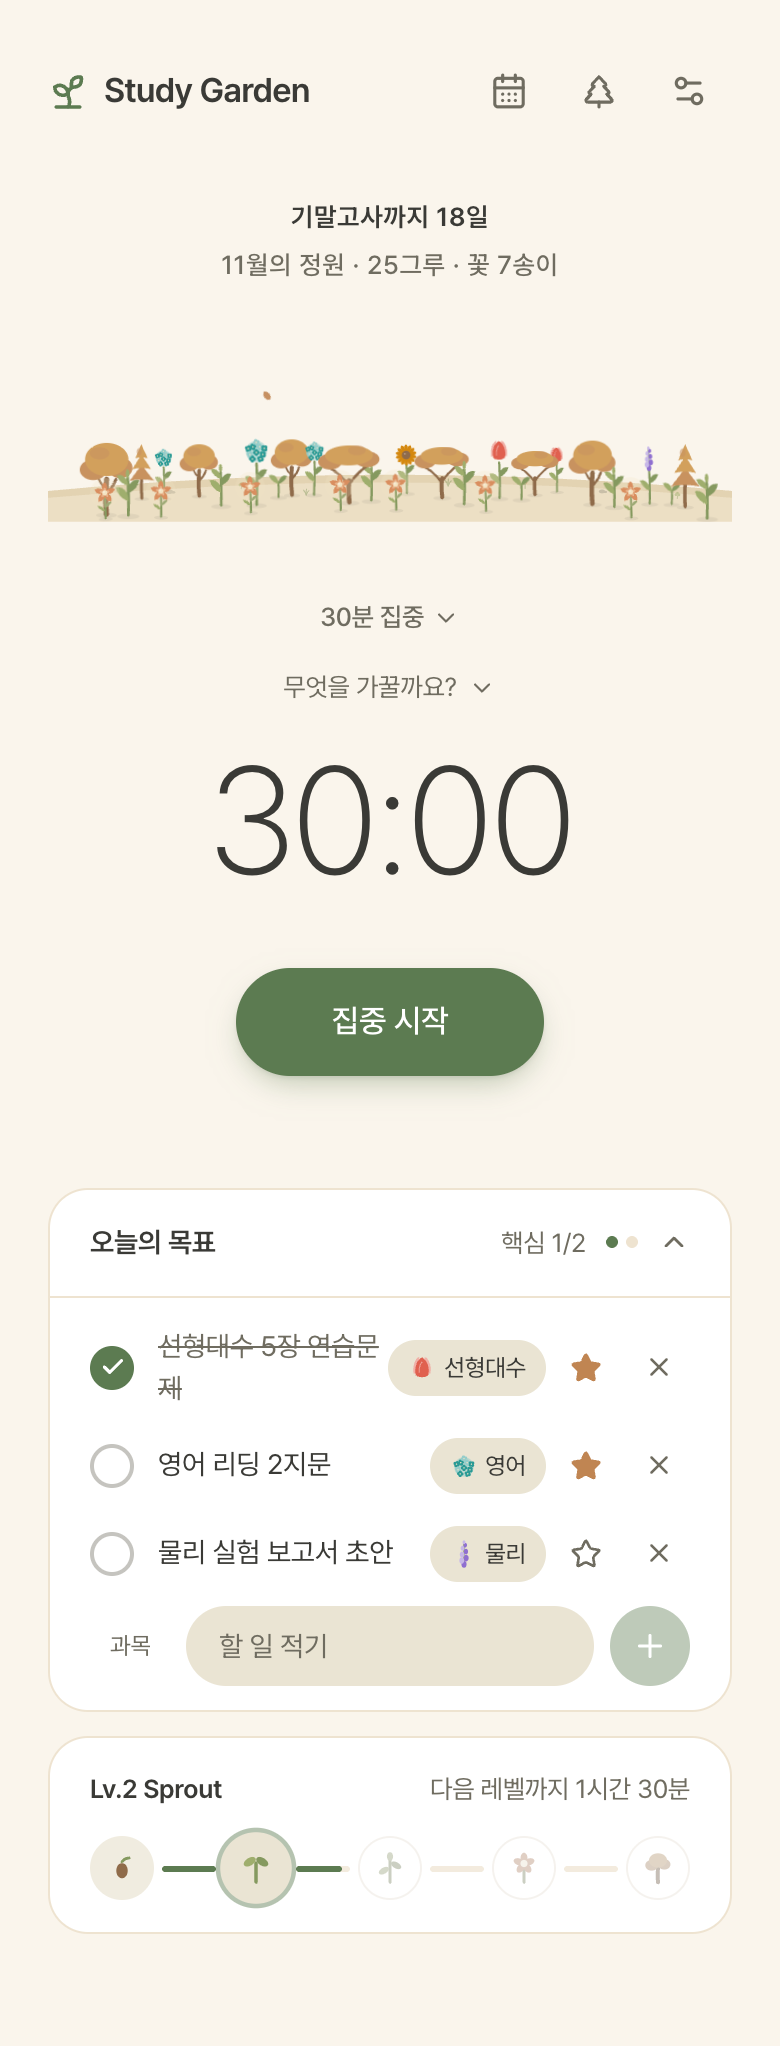
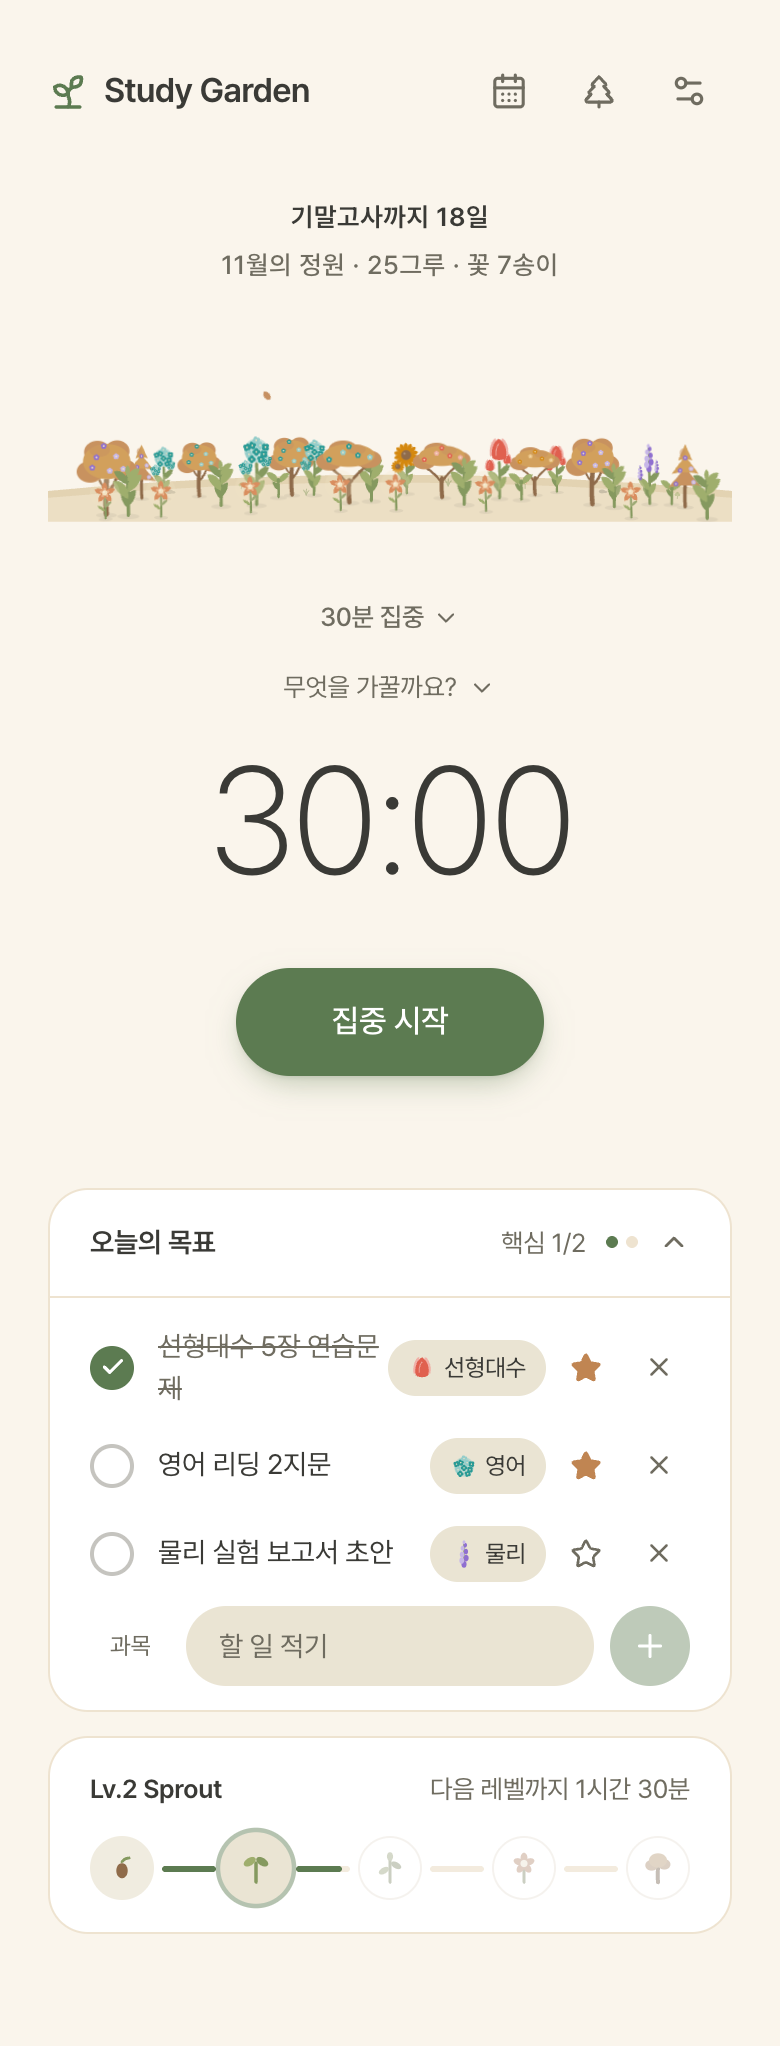
정원 아트 개정 B: 풍성하고 알록달록하게 — 새싹 잎 3장·잎 덤불·곁가지 꽃·나무 꽃(과목색)
사용자 요청("비실비실") → A/B 비교 후 확정. 나무에도 과목색 꽃이 피어 docs/03 측정 계획 2 해소.
README·회고·docs/03 갱신, 스크린샷 19장 재촬영(프로덕션 서버). 시나리오 139/139, npm test 59/59.

Changed region(s): [[0.0923, 0.2155, 0.9231, 0.2463]]

diff --git a/components/garden/Plant.tsx b/components/garden/Plant.tsx
@@ -36,33 +36,39 @@ function SproutShape() {
   return (
     <g>
       <path
-        d="M0 0 C0.4 -6 0.4 -12 0 -17"
+        d="M0 0 C0.4 -6 0.4 -12 0 -18"
         stroke="var(--stem)"
-        strokeWidth="2.4"
+        strokeWidth="3"
         strokeLinecap="round"
         fill="none"
       />
-      <LeafBlade x={0} y={-15.5} angle={8} size={1.05} fill="var(--leaf)" />
-      <LeafBlade x={0} y={-15.5} angle={-8} size={0.95} flip fill="var(--stem)" />
+      <LeafBlade x={0} y={-8} angle={20} size={0.85} fill="var(--stem)" />
+      <LeafBlade x={0} y={-16.5} angle={6} size={1.3} fill="var(--leaf)" />
+      <LeafBlade x={0} y={-16.5} angle={-6} size={1.2} flip fill="var(--leaf)" />
+      <ellipse cx="0" cy="-19.5" rx="2.2" ry="3" fill="var(--stem)" />
     </g>
   )
 }
 
+/** 잎 단계 — 잎이 무성한 작은 덤불. 두 톤 잎이 엇갈려 난다. */
 function LeafShape() {
   return (
     <g>
       <path
-        d="M0 0 C0.6 -12 0.6 -24 0 -34"
+        d="M0 0 C0.6 -12 0.6 -24 0 -36"
         stroke="var(--stem)"
-        strokeWidth="2.6"
+        strokeWidth="3.2"
         strokeLinecap="round"
         fill="none"
       />
-      <LeafBlade x={0} y={-13} angle={14} size={1.15} fill="var(--leaf)" />
-      <LeafBlade x={0} y={-20} angle={-14} size={1.1} flip fill="var(--stem)" />
-      <LeafBlade x={0} y={-27} angle={10} size={0.95} fill="var(--leaf)" />
+      <LeafBlade x={0} y={-6} angle={34} size={1.2} fill="var(--stem)" />
+      <LeafBlade x={0} y={-8} angle={-30} size={1.15} flip fill="var(--stem)" />
+      <LeafBlade x={0} y={-15} angle={16} size={1.45} fill="var(--leaf)" />
+      <LeafBlade x={0} y={-21} angle={-16} size={1.4} flip fill="var(--leaf)" />
+      <LeafBlade x={0} y={-28} angle={10} size={1.2} fill="var(--stem)" />
+      <LeafBlade x={0} y={-31} angle={-10} size={1.1} flip fill="var(--leaf)" />
       <path
-        d="M0 -33 C-2.6 -36 -2.2 -40.5 0 -42.5 C2.2 -40.5 2.6 -36 0 -33 Z"
+        d="M0 -35 C-3.2 -38.6 -2.8 -43.6 0 -46 C2.8 -43.6 3.2 -38.6 0 -35 Z"
         fill="var(--leaf)"
       />
     </g>
@@ -71,7 +77,7 @@ function LeafShape() {
 
 /** 기존(과목 없음) 꽃송이 — 둥근 꽃잎 6장. variant로 색이 달라진다. */
 function DefaultBloom({ variant }: { variant: number }) {
-  const petal = PETAL_COLORS[variant % PETAL_COLORS.length]
+  const petal = PETAL_COLORS[((variant % PETAL_COLORS.length) + PETAL_COLORS.length) % PETAL_COLORS.length]
   return (
     <>
       {PETAL_ANGLES.map((deg) => (
@@ -196,20 +202,41 @@ export function SpeciesIcon({ species, className }: { species: SpeciesId; classN
   )
 }
 
+/** 곁가지 끝의 작은 꽃 — 과목 꽃이면 같은 종, 아니면 다른 계절색으로 피어 알록달록해진다 */
+function SideBloom({ x, y, scale, variant, species }: { x: number; y: number; scale: number; variant: number; species: SpeciesId | null }) {
+  const Bloom = species != null ? SPECIES_BLOOM[species] : null
+  return (
+    <g transform={`translate(${x} ${y}) scale(${scale})`}>
+      {Bloom ? <Bloom /> : <DefaultBloom variant={variant} />}
+    </g>
+  )
+}
+
 function FlowerShape({ variant, species }: { variant: number; species: SpeciesId | null }) {
   const Bloom = species != null ? SPECIES_BLOOM[species] : null
   return (
     <g>
+      <path d="M0 -18 C-4 -22 -8 -26 -10 -32" stroke="var(--stem)" strokeWidth="2" strokeLinecap="round" fill="none" />
+      <path d="M0 -24 C4 -28 7.5 -32 9 -39" stroke="var(--stem)" strokeWidth="2" strokeLinecap="round" fill="none" />
       <path
         d="M0 0 C0.6 -16 0.6 -30 0 -41"
         stroke="var(--stem)"
-        strokeWidth="2.6"
+        strokeWidth="3.2"
         strokeLinecap="round"
         fill="none"
       />
-      <LeafBlade x={0} y={-16} angle={12} size={1.15} fill="var(--leaf)" />
-      <LeafBlade x={0} y={-24} angle={-12} size={1.05} flip fill="var(--stem)" />
-      <g transform="translate(0 -48)">
+      <LeafBlade x={0} y={-6} angle={30} size={1.25} fill="var(--stem)" />
+      <LeafBlade x={0} y={-9} angle={-28} size={1.2} flip fill="var(--leaf)" />
+      <LeafBlade x={0} y={-16} angle={12} size={1.35} fill="var(--leaf)" />
+      <LeafBlade x={0} y={-24} angle={-12} size={1.25} flip fill="var(--stem)" />
+      <g
+        className="plant-sway"
+        style={{ '--sway-a': '2.4deg', animationDuration: '4.4s' } as React.CSSProperties}
+      >
+        <SideBloom x={-10.5} y={-34} scale={0.62} variant={variant + 1} species={species} />
+        <SideBloom x={9.5} y={-41} scale={0.55} variant={variant + 2} species={species} />
+      </g>
+      <g transform="translate(0 -48) scale(1.15)">
         <g
           className="plant-sway"
           style={{ '--sway-a': '2.1deg', animationDuration: '3.9s' } as React.CSSProperties}
@@ -221,8 +248,31 @@ function FlowerShape({ variant, species }: { variant: number; species: SpeciesId
   )
 }
 
+/**
+ * 나무에 핀 꽃(또는 열매) 몇 송이 — 캐노피 위의 색 점. 과목 나무면 과목색이라
+ * 나무가 돼도 과목이 보이고, 과목이 없으면 계절 꽃잎색으로 알록달록하다.
+ */
+function TreeBlossoms({ spots, variant, species }: { spots: [number, number][]; variant: number; species: SpeciesId | null }) {
+  const colors =
+    species != null
+      ? [`var(--sp-${species})`, `var(--sp-${species}-soft)`]
+      : [PETAL_COLORS[variant % 3], PETAL_COLORS[(variant + 1) % 3], 'var(--core)']
+  return (
+    <g>
+      {spots.map(([x, y], i) => (
+        <g key={i} transform={`translate(${x} ${y})`}>
+          {[0, 72, 144, 216, 288].map((deg) => (
+            <circle key={deg} cx="0" cy="-1.5" r="1.45" fill={colors[i % colors.length]} transform={`rotate(${deg})`} />
+          ))}
+          <circle r="0.9" fill="var(--core)" />
+        </g>
+      ))}
+    </g>
+  )
+}
+
 /** 둥근 활엽수 — V1의 기본 나무. */
-function BroadleafTree() {
+function BroadleafTree({ variant, species }: TreeProps) {
   return (
     <g>
       <path
@@ -246,16 +296,19 @@ function BroadleafTree() {
         strokeLinecap="round"
         fill="none"
       />
-      <ellipse cx="-13" cy="-43" rx="13" ry="10" fill="var(--canopy-2)" />
-      <ellipse cx="13" cy="-45" rx="12" ry="10" fill="var(--canopy-2)" />
-      <ellipse cx="0" cy="-53" rx="21" ry="16" fill="var(--canopy)" />
-      <ellipse cx="-7" cy="-59" rx="9.5" ry="6" fill="var(--canopy-2)" opacity="0.55" />
+      <ellipse cx="-16" cy="-41" rx="13" ry="10.5" fill="var(--canopy-2)" />
+      <ellipse cx="16" cy="-43" rx="13" ry="10.5" fill="var(--canopy-2)" />
+      <ellipse cx="-9" cy="-60" rx="13" ry="11" fill="var(--canopy-2)" />
+      <ellipse cx="10" cy="-61" rx="12" ry="10.5" fill="var(--canopy-2)" />
+      <ellipse cx="0" cy="-51" rx="23" ry="17" fill="var(--canopy)" />
+      <ellipse cx="-7" cy="-62" rx="10" ry="6.5" fill="var(--canopy-2)" opacity="0.55" />
+      <TreeBlossoms spots={[[-14, -45], [9, -56], [-3, -66], [16, -44], [-10, -55], [3, -42]]} variant={variant} species={species} />
     </g>
   )
 }
 
 /** 침엽수 — 곡선 변으로 부드럽게 그린 3단 층. 활엽수보다 좁고 크다. */
-function ConiferTree() {
+function ConiferTree({ variant, species }: TreeProps) {
   return (
     <g>
       <path
@@ -266,11 +319,11 @@ function ConiferTree() {
         fill="none"
       />
       <path
-        d="M0 -46 C6 -38 12 -30 17 -24 C6 -26.5 -6 -26.5 -17 -24 C-12 -30 -6 -38 0 -46 Z"
+        d="M0 -46 C7 -38 14 -30 20 -23 C7 -26 -7 -26 -20 -23 C-14 -30 -7 -38 0 -46 Z"
         fill="var(--canopy-2)"
       />
       <path
-        d="M0 -60 C4.5 -53.5 9 -46 13 -40 C4.5 -42.2 -4.5 -42.2 -13 -40 C-9 -46 -4.5 -53.5 0 -60 Z"
+        d="M0 -60 C5.5 -53.5 11 -46 16 -39 C5.5 -41.6 -5.5 -41.6 -16 -39 C-11 -46 -5.5 -53.5 0 -60 Z"
         fill="var(--canopy)"
       />
       <path
@@ -278,12 +331,13 @@ function ConiferTree() {
         fill="var(--canopy)"
       />
       <ellipse cx="-3" cy="-64" rx="3.6" ry="5" fill="var(--canopy-2)" opacity="0.55" />
+      <TreeBlossoms spots={[[-11, -27], [10, -29], [-6, -43], [7, -45], [0, -58]]} variant={variant} species={species} />
     </g>
   )
 }
 
 /** 아치형 — 가지가 양옆으로 벌어지고 캐노피가 넓게 얹힌 우산 실루엣. 셋 중 가장 낮고 넓다. */
-function ArchTree() {
+function ArchTree({ variant, species }: TreeProps) {
   return (
     <g>
       <path
@@ -307,20 +361,27 @@ function ArchTree() {
         strokeLinecap="round"
         fill="none"
       />
-      <ellipse cx="-19" cy="-41" rx="12" ry="8" fill="var(--canopy-2)" />
-      <ellipse cx="18" cy="-43" rx="12.5" ry="8" fill="var(--canopy-2)" />
-      <ellipse cx="0" cy="-47" rx="24" ry="10" fill="var(--canopy)" />
-      <ellipse cx="8" cy="-52" rx="9" ry="5" fill="var(--canopy-2)" opacity="0.55" />
+      <ellipse cx="-20" cy="-41" rx="13" ry="9" fill="var(--canopy-2)" />
+      <ellipse cx="19" cy="-43" rx="13.5" ry="9" fill="var(--canopy-2)" />
+      <ellipse cx="-6" cy="-54" rx="14" ry="8" fill="var(--canopy-2)" />
+      <ellipse cx="0" cy="-47" rx="26" ry="11.5" fill="var(--canopy)" />
+      <ellipse cx="8" cy="-53" rx="9" ry="5" fill="var(--canopy-2)" opacity="0.55" />
+      <TreeBlossoms spots={[[-20, -43], [-6, -50], [9, -47], [21, -45], [0, -56]]} variant={variant} species={species} />
     </g>
   )
 }
 
+interface TreeProps {
+  variant: number
+  species: SpeciesId | null
+}
+
 /** 나무 수종은 꽃잎 색과 같은 방식으로 variant(세션 id 해시)에서 결정된다. */
-function TreeShape({ variant }: { variant: number }) {
+function TreeShape({ variant, species }: TreeProps) {
   const kind = variant % 3
-  if (kind === 1) return <ConiferTree />
-  if (kind === 2) return <ArchTree />
-  return <BroadleafTree />
+  if (kind === 1) return <ConiferTree variant={variant} species={species} />
+  if (kind === 2) return <ArchTree variant={variant} species={species} />
+  return <BroadleafTree variant={variant} species={species} />
 }
 
 interface PlantProps {
@@ -362,7 +423,7 @@ export function Plant({ stage, variant = 0, species = null, delay = 0 }: PlantPr
         {stage === 'sprout' && <SproutShape />}
         {stage === 'leaf' && <LeafShape />}
         {stage === 'flower' && <FlowerShape variant={variant} species={species} />}
-        {stage === 'tree' && <TreeShape variant={variant} />}
+        {stage === 'tree' && <TreeShape variant={variant} species={species} />}
       </g>
     </motion.g>
   )

diff --git a/README.md b/README.md
@@ -128,8 +128,11 @@ lib/            순수 함수 — 세션→식물 배치, 레벨, 통계, 계절
 lib/storage/    localStorage repository — 기존 키는 그대로, 새 키 3개(tasks·subjects·exams)만 추가
 ```
 
-- **하위 호환.** 고도화 전의 기록(과목 없는 세션)은 고도화 후에도 **픽셀 단위로 같은 정원**을
-  그립니다 — V1 커밋과 현재를 같은 데이터로 렌더해 스크린샷 바이트 비교로 확인했습니다.
+- **하위 호환.** 저장 형식은 그대로라 고도화 전의 기록도 마이그레이션 없이 읽힙니다. 기능 단계(M1~M5) 동안은
+  과목 없는 기존 기록이 V1과 **픽셀 단위로 같은 정원**을 그리는지 스크린샷 바이트 비교로 지켰고, 그 뒤 식물 아트를
+  의도적으로 풍성하게 바꿨습니다(아래).
+- **풍성한 정원 (2026-11-25 개정).** 새싹은 잎 세 장, 잎 단계는 작은 덤불, 꽃은 곁가지 꽃 두 송이, 나무는 수관 위에 작은 꽃이
+  핍니다. 과목 식물은 곁꽃·나무 꽃까지 과목색이라 **나무가 돼도 과목이 보이고**, 과목 없는 식물은 계절색이 섞여 알록달록합니다.
 
 - **디자인 토큰이 유일한 진실.** 색·그림자·라운드는 전부 `globals.css`의 CSS 변수로 정의되고,
   Tailwind `@theme inline`을 거쳐 유틸리티가 됩니다. 컴포넌트에는 hex 코드가 없습니다.
@@ -216,8 +219,6 @@ V1 이후 완료: **Vercel 배포**(https://study-garden-omega.vercel.app) · **
 
 - 커스텀 도메인 연결 (주의: 설치·localStorage가 origin 단위라 데이터 이전 계획 선행 — docs/02 리스크 참조)
 - 시트 접근성 마무리 (Escape 닫기, 포커스 트랩)
-- 나무 단계에서도 과목이 보이게 — 지금은 꽃 단계에서만 과목 색이 보이고, 공부를 많이 한 달은 이른
-  식물이 대부분 나무가 된다 (docs/03 측정 계획 2, 실사용 데이터로 판단 예정)
 - 통계 심화 (주간 리듬, 시간대 분포) — 월간 정리 카드가 과목 비율까지 담당
 - 서비스명·브랜딩 재검토
 

diff --git a/docs/03_study-planner.md b/docs/03_study-planner.md
@@ -1,6 +1,6 @@
 # 03 — 공부 계획 고도화 (목표 체크리스트 · 과목 식물 · D-day · 월간 정리)
 
-> 상태: **승인 (2026-11-25) · M1·M2 완료 · M3 잠정 완료 (팔레트 승인, 측정 2 대기) · M1~M5 완료 · M6 진행 — 배포(main 푸시) 승인 대기**
+> 상태: **승인 (2026-11-25) · M1~M5 완료 (측정 2는 아트 개정 B로 해소) · M6 진행 — 배포(main 푸시) 승인 대기**
 
 ## 배경
 
@@ -383,6 +383,11 @@ interface Exam {
 - 공모전 자료: `docs/retrospective.md` (포트폴리오 설명·1분 대본·배운 점·트러블슈팅·리팩토링 후보·환류 제안).
 - **관찰 (측정 계획 2와 직결)**: 하루 1시간 이상 공부한 데모 달(26시간)은 28그루 중 과목 꽃 4~5송이 — 이른 식물이 대부분 나무가
   되어 과목 색이 사라진다. README 스크린샷은 하루 ~30분 시드로 연출(스크립트 주석에 명시). 나무 단계 과목 표현은 V2 후보.
+- **아트 개정 B (2026-11-25 사용자 요청 "비실비실 → 풍성하고 알록달록", A/B 비교 후 확정)**: 새싹 잎 3장·줄기 굵게,
+  잎 단계 6장 덤불, 꽃에 곁가지 꽃 2송이(과목 꽃은 같은 종, 과목 없으면 다른 계절색), 나무 수관 확대 + 작은 꽃 5~6송이
+  (과목 나무는 `--sp-N`, 아니면 계절 꽃잎색). → **측정 계획 2의 결정 대상(나무 단계 과목 표현)이 해소** — 실사용 측정 없이
+  "나무도 과목색 꽃"으로 확정. M3 완료 기준 "과목 없는 기존 세션은 V1과 픽셀 동일"은 이 개정으로 의도적으로 폐기.
+  한계: 390px 화면에서 나무 꽃은 점 크기 — 더 키우면 물방울무늬처럼 보여 멈춤.
 - 남은 것: main 푸시(사용자 승인) → 배포판에서 시나리오 한 바퀴 + 기존 실사용 데이터 유지 확인 + Safari "이미지로 저장" 확인.
 
 ## 문서 연결 (승인 후 반영)
